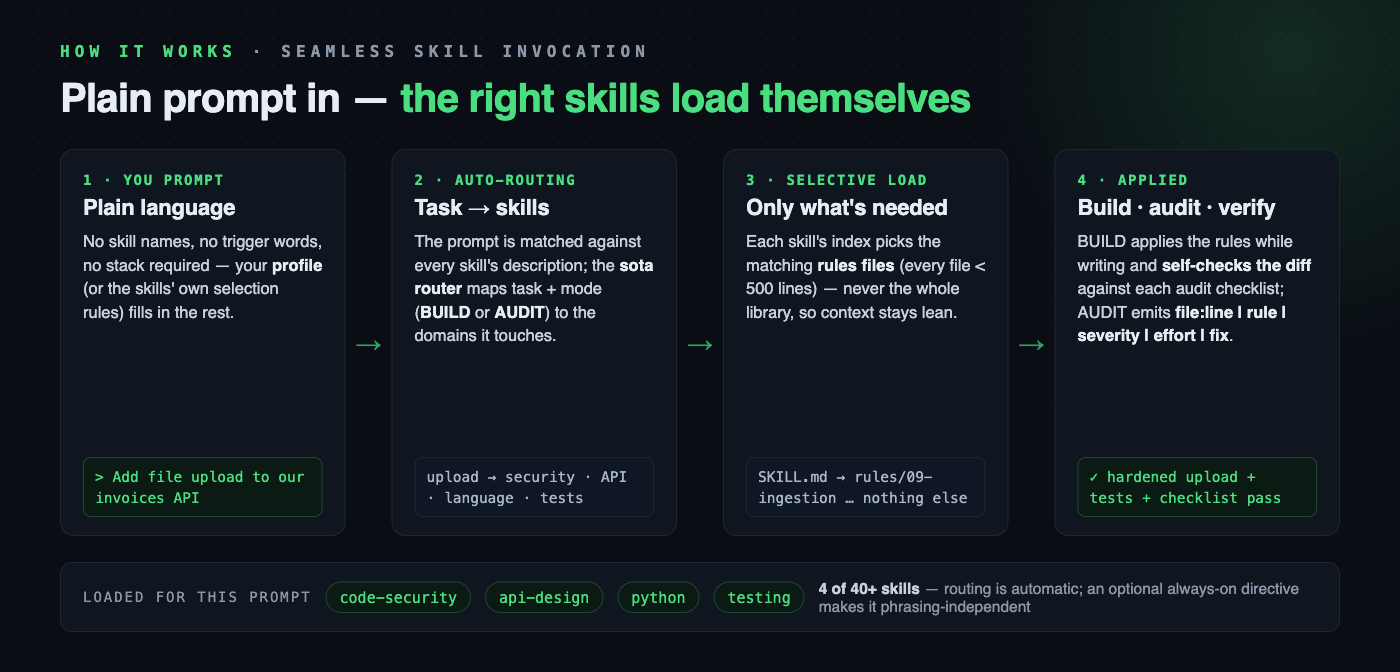
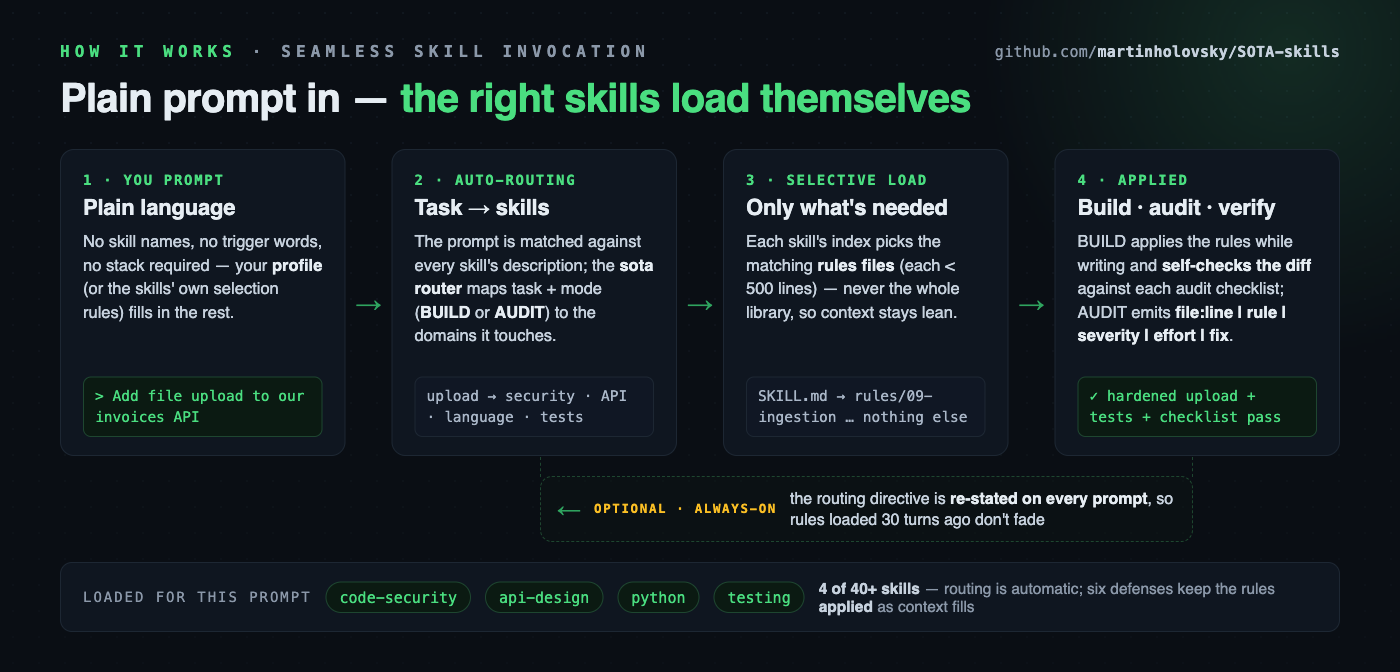
docs(assets): render the how-it-works fix, and draw the loop it describes (#174)
PR #173 edited assets/how-it-works.html ("every file < 500 lines" ->
"each < 500 lines") but never re-rendered assets/how-it-works.png, whose last
render was #55 on 2026-07-09. The README embeds the PNG, so every reader kept
seeing the repo-wide line-cap claim that #173 set out to delete, while the diff,
the commit message and the CHANGELOG all reported that surface fixed. A fix
counted on a surface it never reached is the shape v1.19.9 is named for.

Rendered now, and the diagram caught up with the README's central claim while
it was open:

- return path from stage 4 back to stage 2 for per-prompt re-injection, labelled
  "optional - always-on" because that layer is opt-in setup (install.sh
  --routing) and an unqualified arrow would imply it ships on by default;
- footer's always-on aside moved into that rail and now points at the six
  defenses in docs/CONTEXT-MANAGEMENT.md (the diagram previously drew a one-way
  pipeline showing exactly one of the six);
- repo URL in the header, since the image travels far from anything linking back.

1400x672, matching the original (verified with sips); served over localhost
because file:// is blocked by the browser's local-file policy.

Root cause was that assets/*.png are committed build outputs with no owner and
no gate. CONTRIBUTING.md gains a "Rendered assets" section + a PR-checklist
line: it failed in an ordinary docs PR, not at a release cut, so RELEASING.md
would have been the right rule at the wrong point of use.
[…]

diff --git a/assets/how-it-works.html b/assets/how-it-works.html
@@ -37,12 +37,18 @@
   .wrap{position:relative;height:100%;padding:42px 60px 40px;display:flex;flex-direction:column}
   .mono{font-family:"SF Mono",ui-monospace,Menlo,Consolas,monospace}
 
+  .top{display:flex;align-items:baseline;gap:20px}
   .eyebrow{
     font-family:"SF Mono",ui-monospace,Menlo,Consolas,monospace;
     font-size:16px;letter-spacing:.32em;text-transform:uppercase;
     color:var(--green);font-weight:600;
   }
   .eyebrow .dim{color:var(--muted)}
+  .repo{
+    font-family:"SF Mono",ui-monospace,Menlo,Consolas,monospace;
+    font-size:15px;color:var(--muted);margin-left:auto;flex:0 0 auto;letter-spacing:.02em;
+  }
+  .repo b{color:#c7d2de;font-weight:600}
   h1{margin-top:14px;font-size:40px;font-weight:800;letter-spacing:-.018em}
   h1 .accent{color:var(--green)}
 
@@ -72,8 +78,30 @@
     color:var(--green-dim);font-size:26px;font-weight:700;
   }
 
+  /* the return path: stage 4 back to stage 2, spanning their centres */
+  .loop{
+    position:relative;margin:20px 11.5% 0 37.5%;min-height:52px;
+    border:1px dashed #1e4630;border-radius:12px;
+    background:rgba(11,26,18,.32);
+    display:flex;align-items:center;gap:13px;padding:11px 16px;
+  }
+  .loop::before,.loop::after{
+    content:"";position:absolute;bottom:100%;height:20px;
+    border-left:1px dashed #1e4630;
+  }
+  .loop::before{left:-1px}
+  .loop::after{right:-1px}
+  .loop .head{color:var(--green-dim);font-size:24px;font-weight:700;line-height:1;flex:0 0 auto}
+  .loop .tag{
+    font-family:"SF Mono",ui-monospace,Menlo,Consolas,monospace;
+    font-size:12.5px;letter-spacing:.13em;text-transform:uppercase;
+    color:var(--amber);font-weight:700;flex:0 0 auto;
+  }
+  .loop .txt{font-size:16px;color:#c7d2de;line-height:1.32;flex:1 1 auto;min-width:0}
+  .loop .txt b{color:var(--ink)}
+
   .foot{
-    margin-top:26px;background:var(--panel);border:1px solid var(--line);border-radius:12px;
+    margin-top:20px;background:var(--panel);border:1px solid var(--line);border-radius:12px;
     padding:16px 22px;display:flex;align-items:center;gap:14px;
   }
   .foot .lbl{
@@ -93,7 +121,10 @@
   <div class="grid"></div>
   <div class="glow"></div>
   <div class="wrap">
-    <div class="eyebrow">How it works <span class="dim">·</span> <span class="dim">seamless skill invocation</span></div>
+    <div class="top">
+      <div class="eyebrow">How it works <span class="dim">·</span> <span class="dim">seamless skill invocation</span></div>
+      <div class="repo">github.com/<b>martinholovsky/SOTA-skills</b></div>
+    </div>
     <h1>Plain prompt in — <span class="accent">the right skills load themselves</span></h1>
 
     <div class="flow">
@@ -126,13 +157,19 @@
       </div>
     </div>
 
+    <div class="loop">
+      <span class="head">←</span>
+      <span class="tag">optional · always-on</span>
+      <span class="txt">the routing directive is <b>re-stated on every prompt</b>, so rules loaded 30 turns ago don't fade</span>
+    </div>
+
     <div class="foot">
       <span class="lbl">Loaded for this prompt</span>
       <span class="pill">code-security</span>
       <span class="pill">api-design</span>
       <span class="pill">python</span>
       <span class="pill">testing</span>
-      <span class="note"><b>4 of 40+ skills</b> — routing is automatic; an optional always-on directive makes it phrasing-independent</span>
+      <span class="note"><b>4 of 40+ skills</b> — routing is automatic; six defenses keep the rules <b>applied</b> as context fills</span>
     </div>
   </div>
 </body>

diff --git a/CHANGELOG.md b/CHANGELOG.md
@@ -21,6 +21,41 @@ and this project adheres to [Semantic Versioning](https://semver.org/spec/v2.0.0
   `CONVENTIONS-LEDGER`'s enforced list. `AGENTS.md`, `CONTRIBUTING.md` and the
   script's header now lead with the rule in one line and say outright that any
   line-cap claim not scoped to skill files is stale.
+
+  **Correction: the `how-it-works` fix reached the source and not the surface.**
+  It edited `assets/how-it-works.html`, but the README embeds
+  `assets/how-it-works.png`, which was last rendered in #55 (2026-07-09) and was
+  not re-rendered — so every reader kept seeing `every file < 500 lines` while
+  the diff, the commit message and the line above all reported the surface fixed.
+  Rendered now; the same claim that opened this entry had been *counted* on a
+  surface it never reached, which is the shape v1.19.9 is named for.
+- **The `how-it-works` diagram shows the loop it describes.** The README hero
+  argues the library is "a **loop**, not a prompt dump — route in only the rules a
+  task needs, re-state them every turn, and re-check them *last* before shipping",
+  and [docs/CONTEXT-MANAGEMENT.md](docs/CONTEXT-MANAGEMENT.md) documents six
+  defenses behind that claim. The diagram drew a **one-way four-box pipeline** and
+  showed exactly one of the six (stage 4's terminal self-check). It now carries a
+  return path from stage 4 back to stage 2 for the per-prompt re-injection —
+  labelled **optional · always-on**, because that layer is opt-in setup
+  (`install.sh --routing`) and the diagram must not imply it ships on by default.
+  The footer's always-on aside moved into that rail and now points at the six
+  defenses. The repo URL was added to the header, since the image travels
+  (LinkedIn, forks, docs) far from anything that links back.
+- **`CONTRIBUTING.md` gained a "Rendered assets" section and a PR-checklist line**
+  — `assets/*.png` are committed build outputs of the `*.html` beside them, nothing
+  regenerates them, and the README embeds the image. The section carries the render
+  command, the exact size per asset, the `file://`-is-blocked reason for serving
+  over localhost, and the `sips` dimension check. Placed in `CONTRIBUTING.md`, not
+  `RELEASING.md`: the failure happened in an ordinary docs PR, not at a release cut,
+  so release-time guidance would have been guidance at the wrong point of use
+  (v1.19.9's proximity finding, applied).
+- **A candidate invariant 12 is logged, not built** — fail when an `assets/*.html`
+  has a newer last-commit than its paired `*.png`. It passes all three
+  [CONVENTIONS-LEDGER](docs/CONVENTIONS-LEDGER.md) filters (it has already failed;
+  it fails silently, since nobody reads the HTML; it is mechanically checkable from
+  `git log -1`), which makes it the second gateable candidate that ledger has found.
+  Deliberately deferred to its own PR so the gate can be **watched to fail** on this
+  exact commit's parent before it is trusted.
 - **Two stale invariant counts fixed.** `docs/MAINTENANCE.md` said
   `check-invariants.sh` runs **7 checks** and `docs/WHY-IT-WORKS.md` said **eight
   invariants**; both are **11** (the script prints its own count, so the drift was

diff --git a/CONTRIBUTING.md b/CONTRIBUTING.md
@@ -171,6 +171,25 @@ Run the invariant checks any time:
 ./scripts/check-invariants.sh
 ```
 
+### Rendered assets
+
+`assets/*.png` are **build outputs** of the `assets/*.html` next to them, and
+both are committed. Nothing regenerates them — so editing the HTML without
+re-rendering leaves the README showing the *old* claim while the diff looks
+fixed. Re-render over localhost (`file://` is typically blocked by the
+browser's local-file policy) at the size the existing PNG already is:
+
+```sh
+cd assets && python3 -m http.server 8731     # then screenshot headless:
+# how-it-works.html  -> how-it-works.png   at 1400x672
+# social-preview.html -> social-preview.png at 1280x640
+```
+
+Confirm the result with `sips -g pixelWidth -g pixelHeight assets/<name>.png`
+before committing — a wrong-sized re-render is a silent regression in the
+README's layout. `social-preview.png` additionally needs a manual re-upload at
+GitHub **Settings → Social preview**; the repo file does not refresh it.
+
 ## Submitting a change
 
 1. Fork and branch (`git checkout -b improve-sota-databases-indexing`).
@@ -187,6 +206,11 @@ Run the invariant checks any time:
 - [ ] Any **new** `rules/*.md` has a row in its skill's rules index (invariant 10).
 - [ ] All touched **skill** files (`skills/**`) are ≤ 500 lines (README/CHANGELOG/`docs/` are uncapped).
 - [ ] No secrets in examples (masked/placeholder only).
+- [ ] Touched an `assets/*.html`? **Re-render its `.png` in the same commit.**
+      The README embeds the *image*, never the source, so an un-rendered fix is
+      invisible to every reader while looking done in the diff — which is
+      exactly what happened to `how-it-works` in #173 (see
+      [rendered assets](#rendered-assets) for the render command).
 - [ ] `pre-commit` / `scripts/check-invariants.sh` passes.
 
 ## Adding a whole new skill

diff --git a/README.md b/README.md
@@ -57,7 +57,7 @@ stack comes from your profile or the skills' defaults (naming one is optional):
 
 > Run a full audit of this repo — severity, effort, and fix on every finding.
 
-<img src="assets/how-it-works.png" alt="How it works: a plain prompt is routed automatically — the sota router maps the task to skills, only the matching rules files load, and the rules are applied in BUILD or AUDIT mode" width="100%">
+<img src="assets/how-it-works.png" alt="How it works: a plain prompt is routed automatically — the sota router maps the task to skills, only the matching rules files load, and the rules are applied in BUILD or AUDIT mode; a return path shows the routing directive re-stated on every prompt so the rules survive a long session" width="100%">
 
 More install options: [Installation](#installation) · more prompts: [Using it](#using-it).
 
